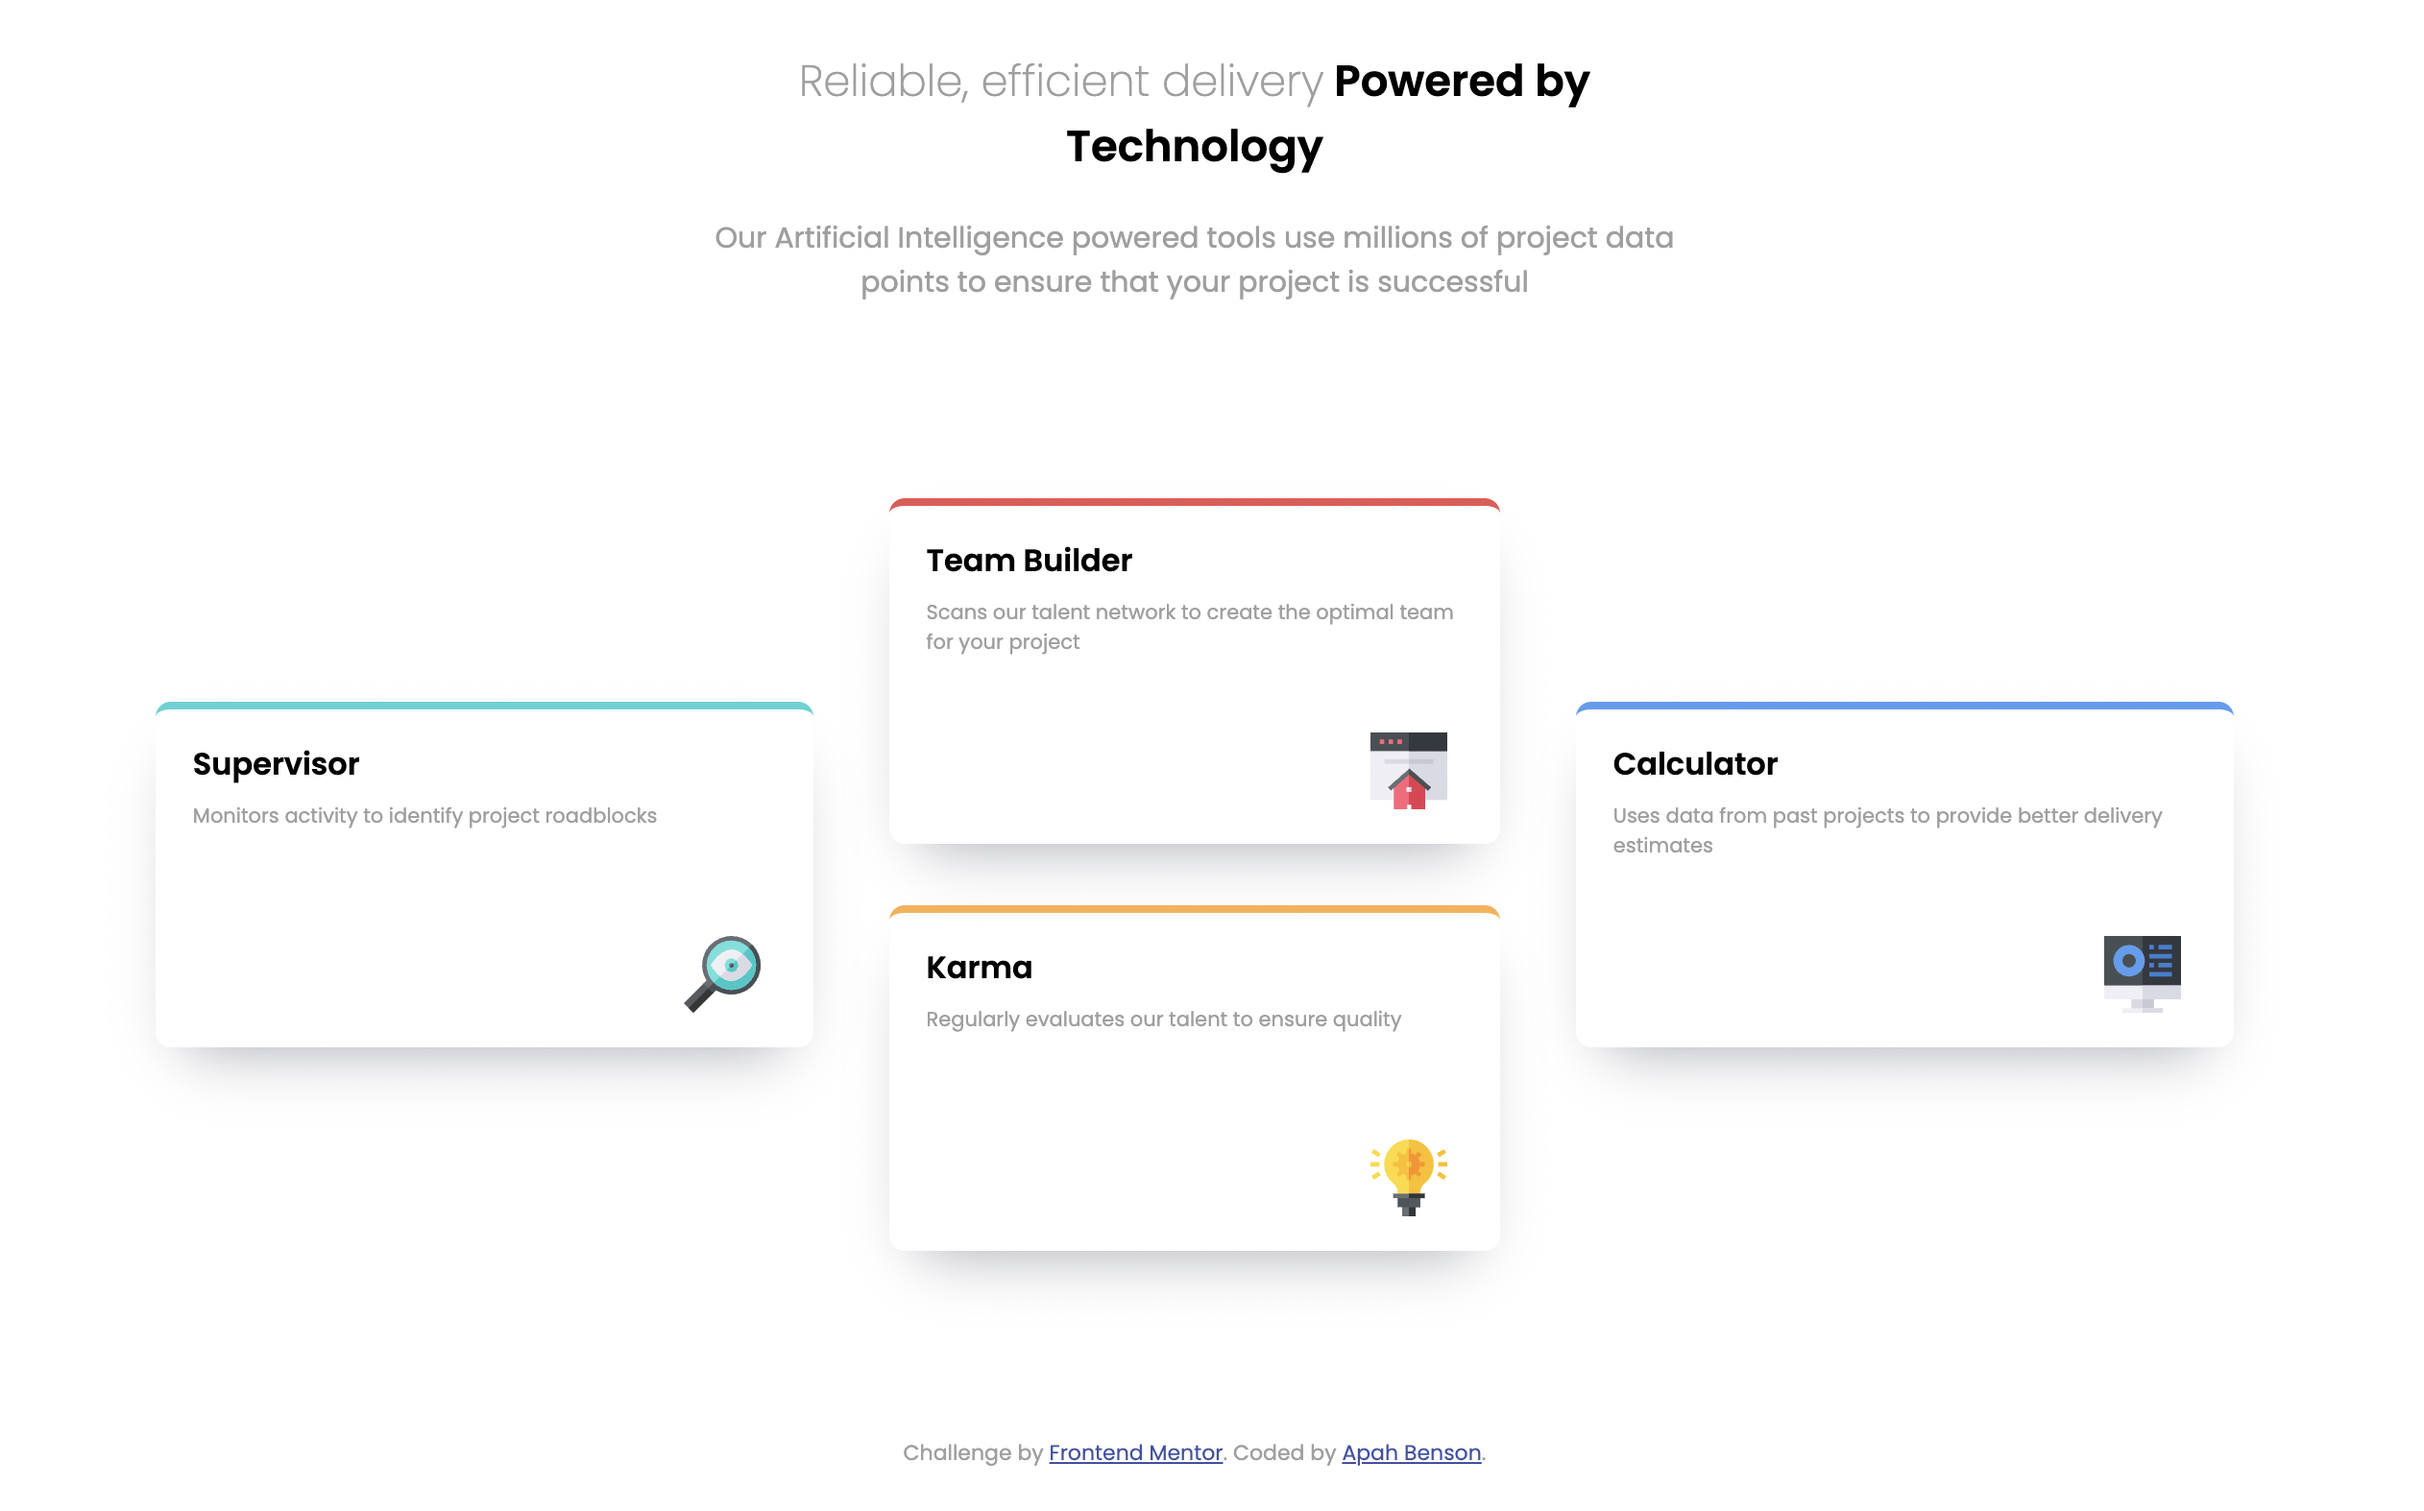
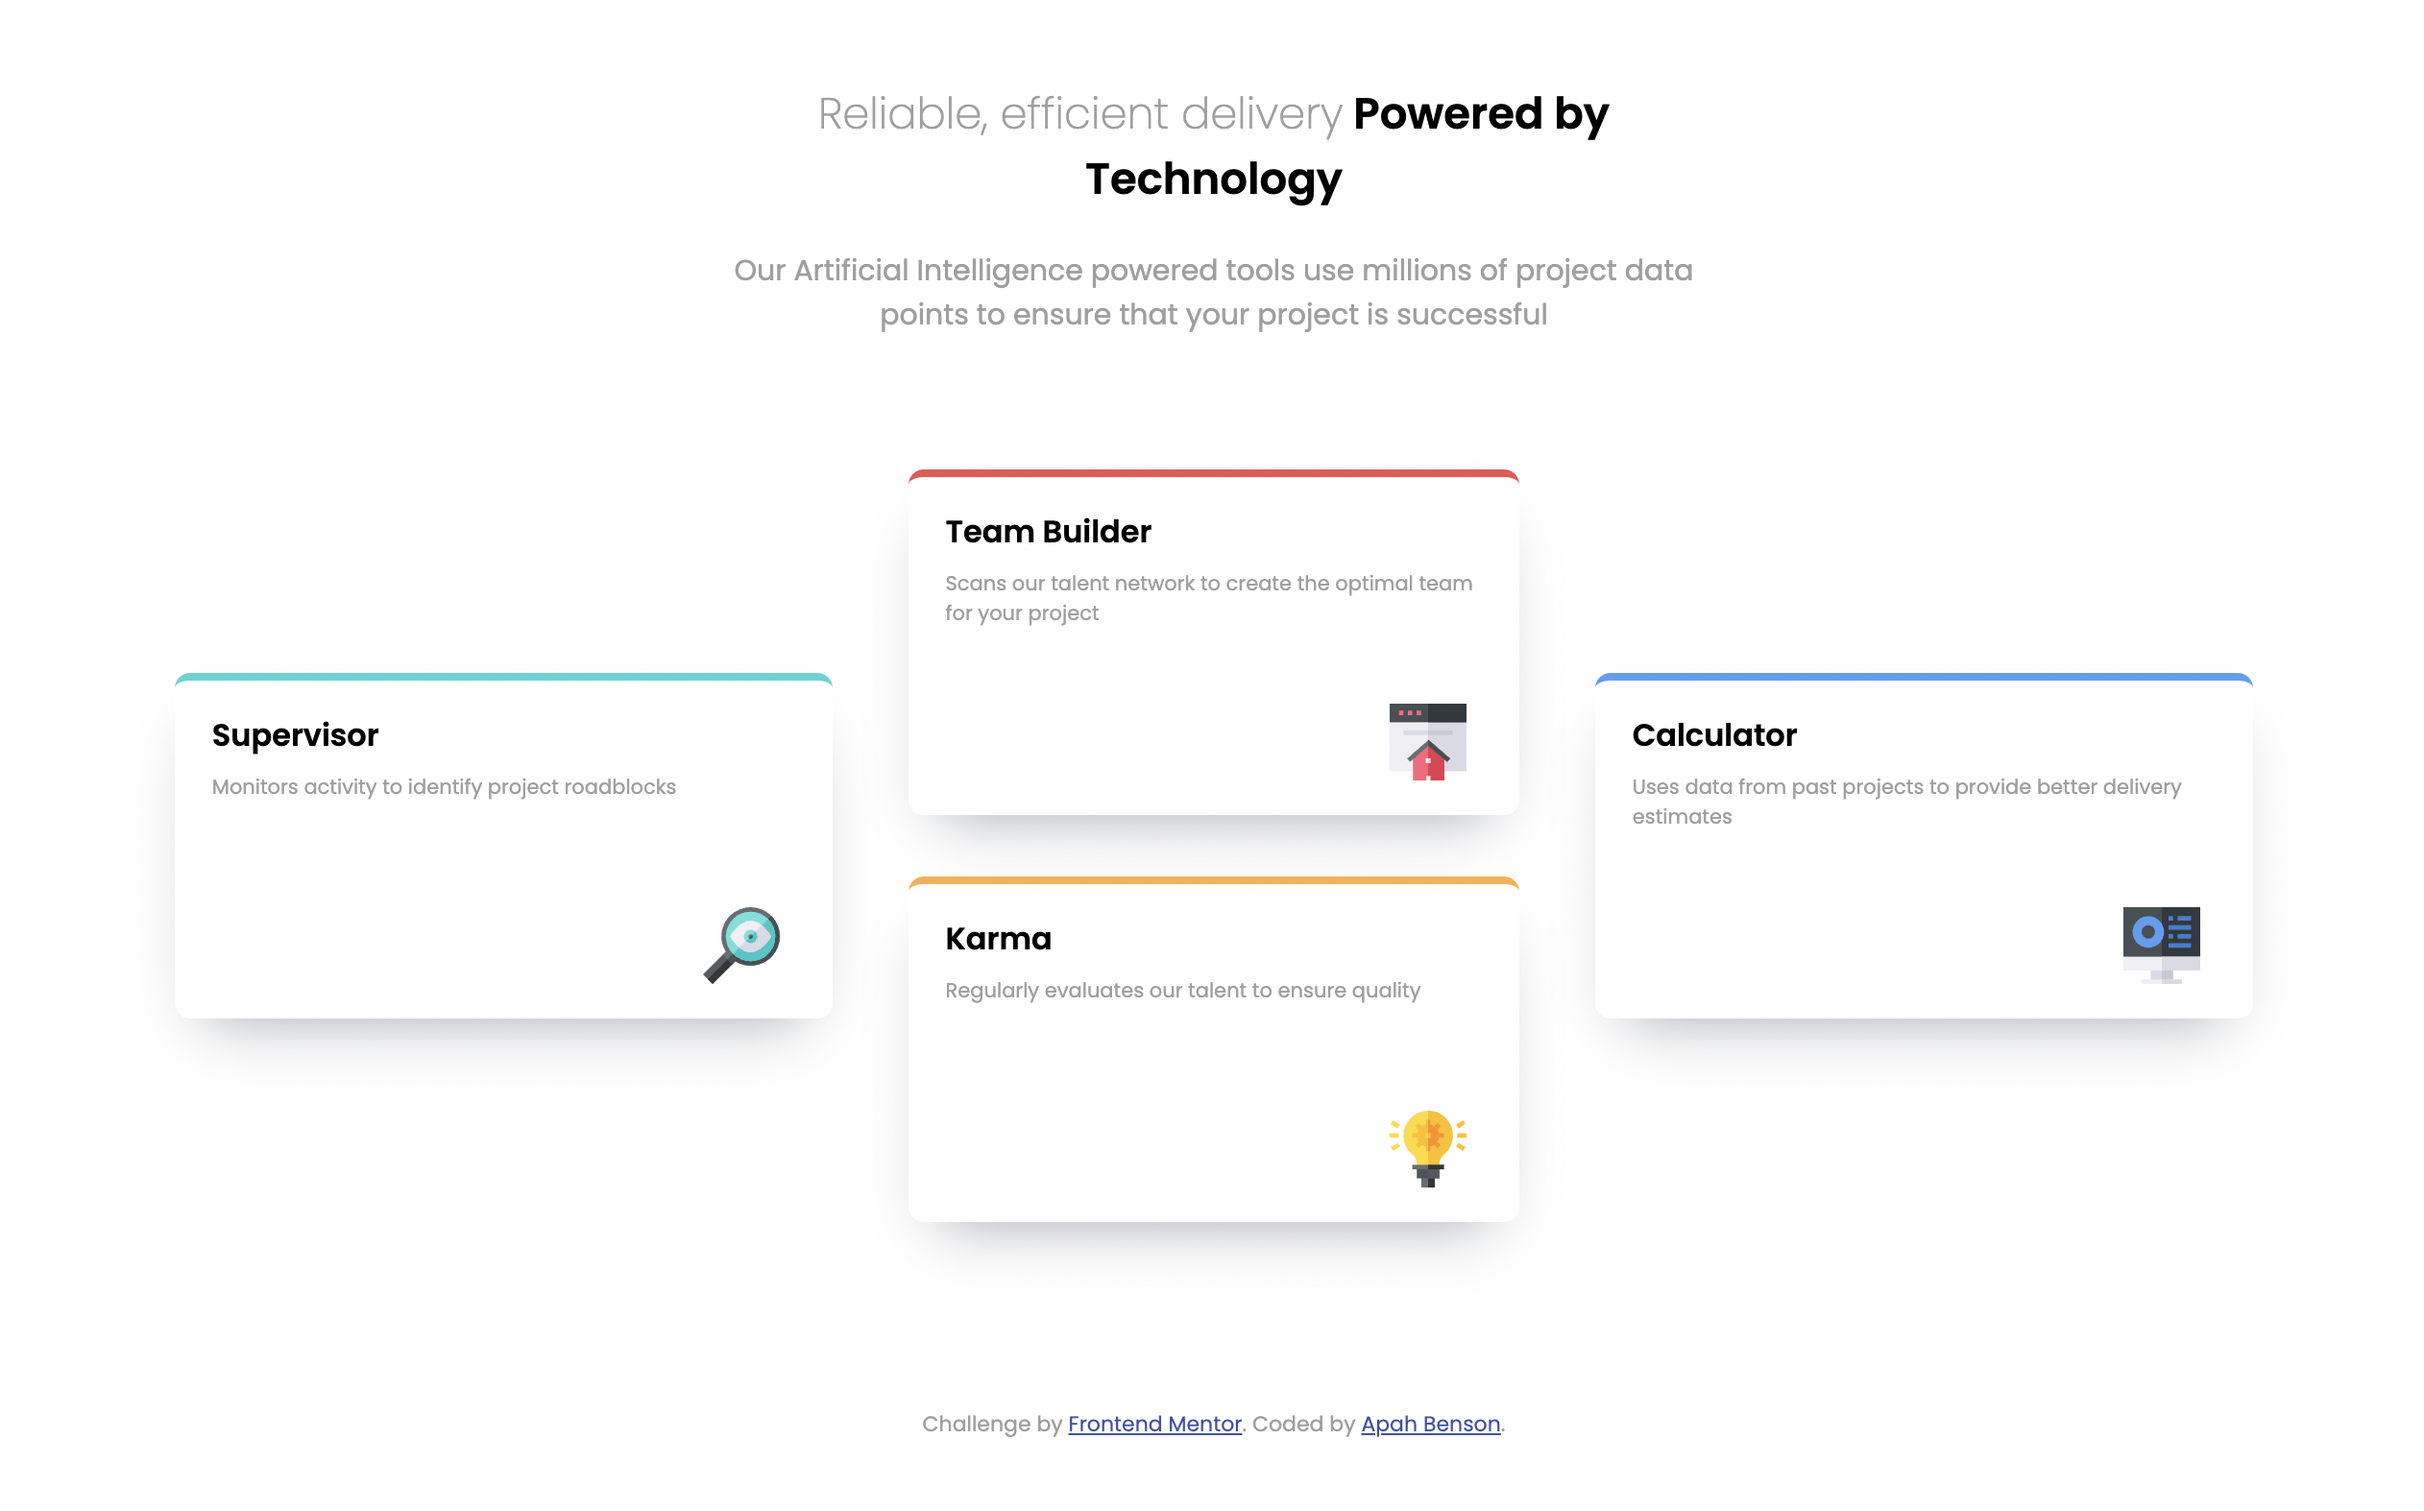
added screenshot and made external stylesheet

diff --git a/style.css b/style.css
@@ -122,6 +122,7 @@ h2 {
     height: 500px;
     padding: 2rem;
     width: 80%;
+    margin-top: -2rem;
   }
 
   .middle-set {

diff --git a/README.md b/README.md
@@ -29,7 +29,7 @@ Users should be able to:
 
 ### Links
 
-- Solution URL: [Add solution URL here](https://your-solution-url.com)
+- Solution URL: [Add solution URL here](https://github.com/apah-dev/four-card-feature-section-master.git)
 - Live Site URL: [Add live site URL here](https://your-live-site-url.com)
 
 ## My process
@@ -43,30 +43,32 @@ Users should be able to:
 
 ### What I learned
 
-Use this section to recap over some of your major learnings while working through this project. Writing these out and providing code samples of areas you want to highlight is a great way to reinforce your own knowledge.
+Learn how to properly use the align-self property and how to use it for self-aligning contents withing a flexbox div.
 
 To see how you can add code snippets, see below:
 
-```html
-<h1>Some HTML code I'm proud of</h1>
-```
-
 ```css
-.proud-of-this-css {
-  color: papayawhip;
+.middle-set {
+  justify-content: center;
+  align-items: center;
 }
-```
 
-```js
-const proudOfThisFunc = () => {
-  console.log("🎉");
-};
+.tools {
+  width: 80%;
+}
+
+.tools:nth-of-type(1) {
+  align-self: flex-center;
+}
+
+.tools:nth-of-type(4) {
+  align-self: center;
+}
 ```
 
 ### Useful resources
 
-- [Example resource 1](https://www.example.com) - This helped me for XYZ reason. I really liked this pattern and will use it going forward.
-- [Example resource 2](https://www.example.com) - This is an amazing article which helped me finally understand XYZ. I'd recommend it to anyone still learning this concept.
+- [HTML & CSS Udemy Course](https://www.udemy.com/course/the-web-developer-bootcamp/learn/lecture/22380972#notes) - This helped with properly understanding the align-self property and how to use it for self-aligning contents withing a flexbox div.
 
 ## Author
 
@@ -75,4 +77,4 @@ const proudOfThisFunc = () => {
 
 ## Acknowledgments
 
-This is where you can give a hat tip to anyone who helped you out on this project. Perhaps you worked in a team or got some inspiration from someone else's solution. This is the perfect place to give them some credit.
+Thanks to Colt for the udemy course https://www.udemy.com/course/the-web-developer-bootcamp/learn/lecture/22380972#notes
